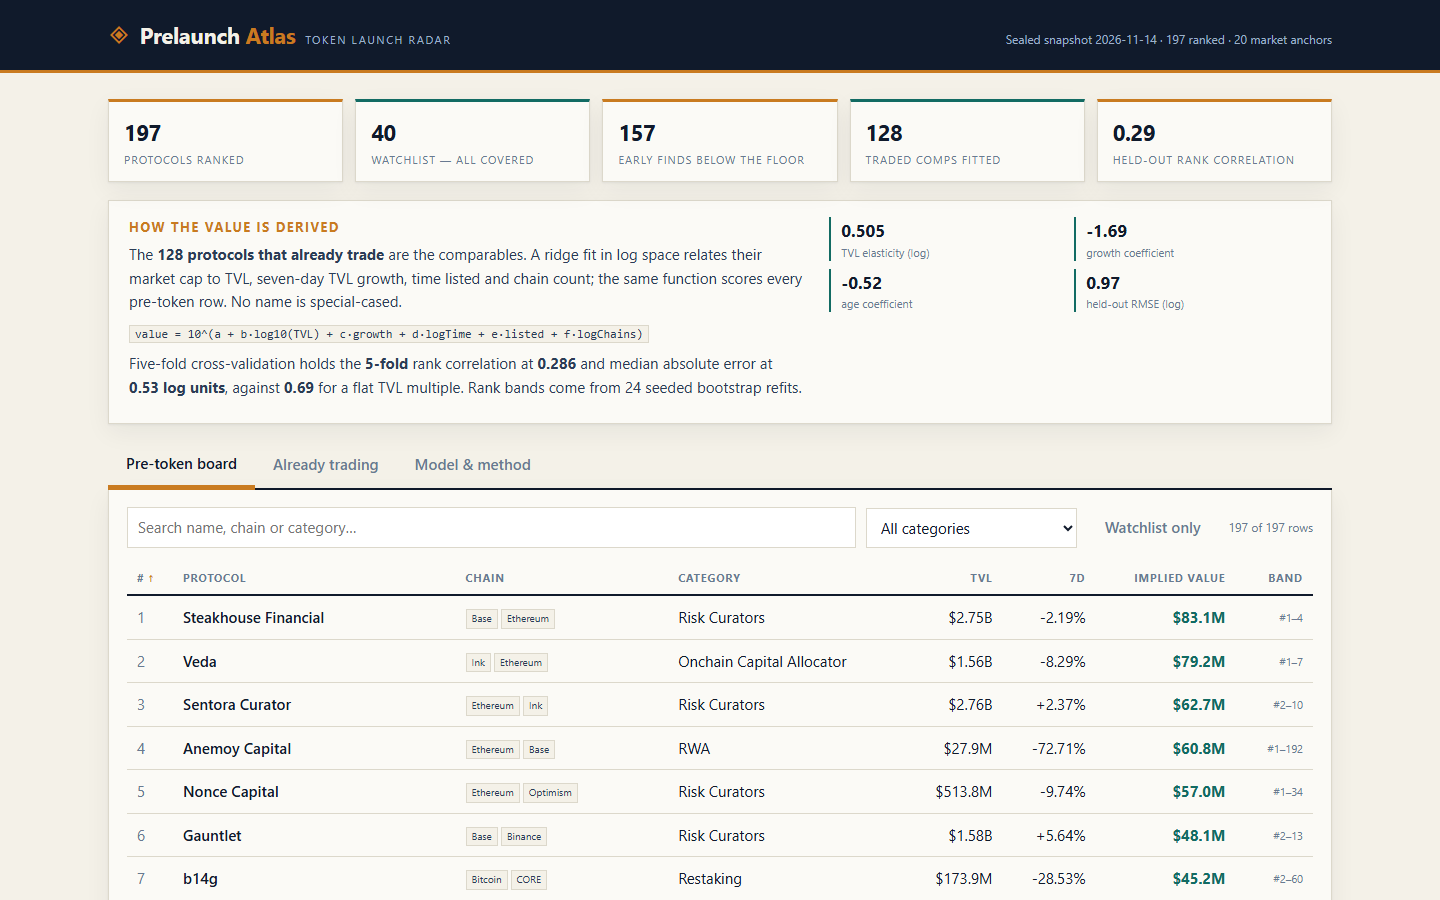
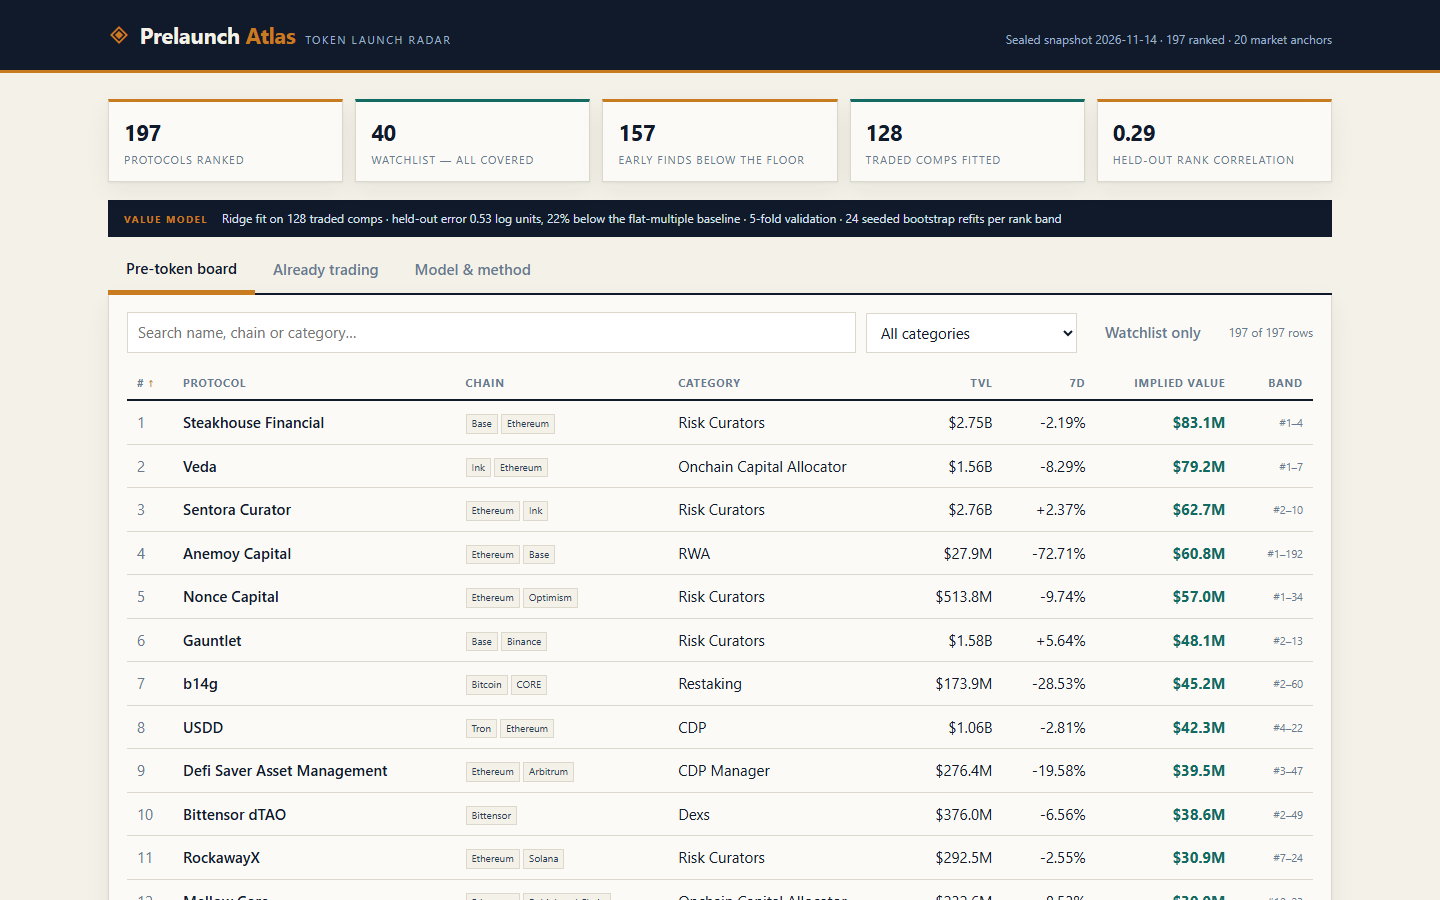
Move method panel behind its own tab so the board fills the first screen

diff --git a/dashboard/app.js b/dashboard/app.js
@@ -51,6 +51,18 @@
 
   document.getElementById('asof').textContent = 'Sealed snapshot ' + D.as_of + ' · ' + D.board_size + ' ranked · ' + D.live_size + ' market anchors';
 
+  function renderRibbon() {
+    var f = D.fit;
+    var better = Math.round((1 - f.cv.medianAbsLogError / f.cv.baselineMedianAbsLogError) * 100);
+    return node('div', { class: 'ribbon' },
+      node('span', { class: 'ribbon-k', text: 'Value model' }),
+      node('span', {
+        text: 'Ridge fit on ' + f.trainedOn + ' traded comps · held-out error ' + f.cv.medianAbsLogError.toFixed(2) +
+          ' log units, ' + better + '% below the flat-multiple baseline · ' + D.fit.cv.folds +
+          '-fold validation · 24 seeded bootstrap refits per rank band',
+      }));
+  }
+
   function renderKpis() {
     var f = D.fit;
     var k = node('div', { class: 'kpis' },
@@ -78,6 +90,11 @@
       node('div', { class: 'stat' }, node('div', { class: 'v', text: f.cv.rmse.toFixed(2) }), node('div', { class: 'l', text: 'held-out RMSE (log)' }))
     );
     return node('section', { class: 'method' }, left, right);
+  }
+
+  /** The full method panel: only shown on the Model & method tab, never above the board. */
+  function renderMethodPanel() {
+    return node('div', { class: 'panel' }, renderMethod());
   }
 
   function tabs() {
@@ -213,9 +230,9 @@
   function render() {
     app.innerHTML = '';
     app.appendChild(renderKpis());
-    app.appendChild(renderMethod());
+    app.appendChild(renderRibbon());
     app.appendChild(tabs());
-    var d = state.sel ? detailPanel() : state.tab === 'board' ? boardPanel() : state.tab === 'live' ? livePanel() : node('div', { class: 'panel' }, renderMethod());
+    var d = state.sel ? detailPanel() : state.tab === 'board' ? boardPanel() : state.tab === 'live' ? livePanel() : renderMethodPanel();
     app.appendChild(d || boardPanel());
     document.getElementById('foot').textContent =
       'Prelaunch Atlas · built from the sealed ' + D.as_of + ' DefiLlama snapshot · ' +

diff --git a/dashboard/app.css b/dashboard/app.css
@@ -41,6 +41,9 @@ main { max-width: 1280px; margin: 0 auto; padding: 26px 28px 60px; }
 .kpi .l { font-size: 11px; color: var(--muted); text-transform: uppercase; letter-spacing: 1px; margin-top: 2px; }
 .kpi.teal { border-top-color: var(--teal); }
 
+.ribbon { display: flex; gap: 14px; align-items: baseline; background: var(--ink); color: #d8e2ee; padding: 9px 16px; margin-bottom: 10px; font-size: 12px; }
+.ribbon-k { font-size: 10px; text-transform: uppercase; letter-spacing: 1.4px; color: var(--amber); font-weight: 700; white-space: nowrap; }
+
 .method { background: var(--card); border: 1px solid var(--line); box-shadow: var(--shadow); padding: 16px 20px; margin-bottom: 18px; display: grid; grid-template-columns: 1.4fr 1fr; gap: 26px; }
 .method h2 { margin: 0 0 6px; font-size: 13px; text-transform: uppercase; letter-spacing: 1.4px; color: var(--amber); }
 .method p { margin: 0 0 8px; color: var(--ink-2); }

diff --git a/lib/model.ts b/lib/model.ts
@@ -51,7 +51,7 @@ export interface FitModel {
 /** The screen's own caps shape what a board may contain. */
 export const EARLY_ROWS = 220;
 export const LIVE_ROWS = 20;
-export const MODEL_VERSION = 'radar-comps-cv-v1';
+export const MODEL_VERSION = 'radar-comps-cv-v2';
 
 /** A farm step: one action, its cash cost, and the time it takes. */
 export interface FarmStep { text: string; cost: string; time: string; }
